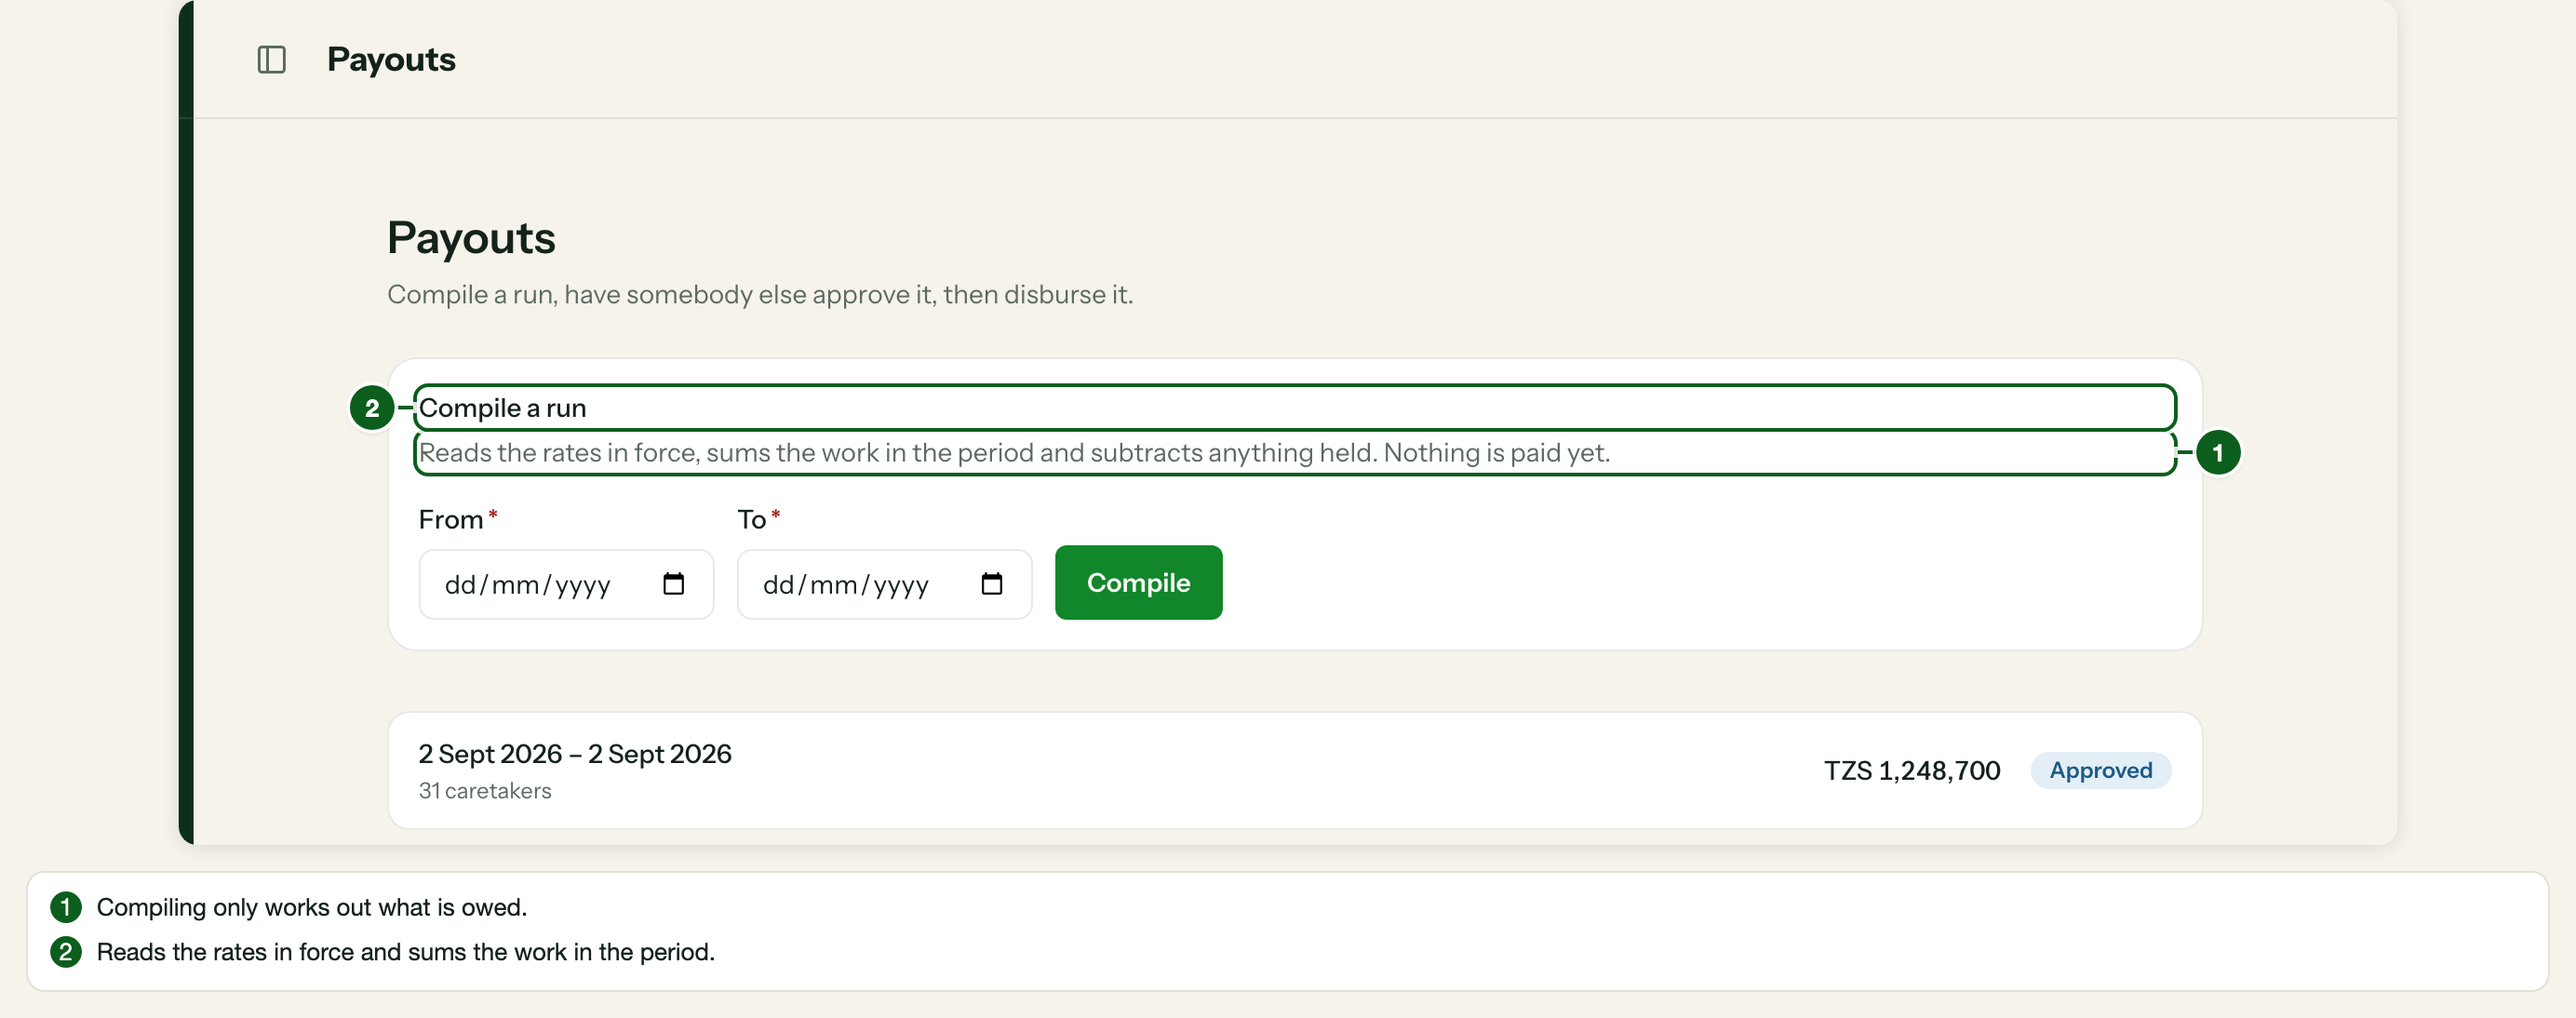
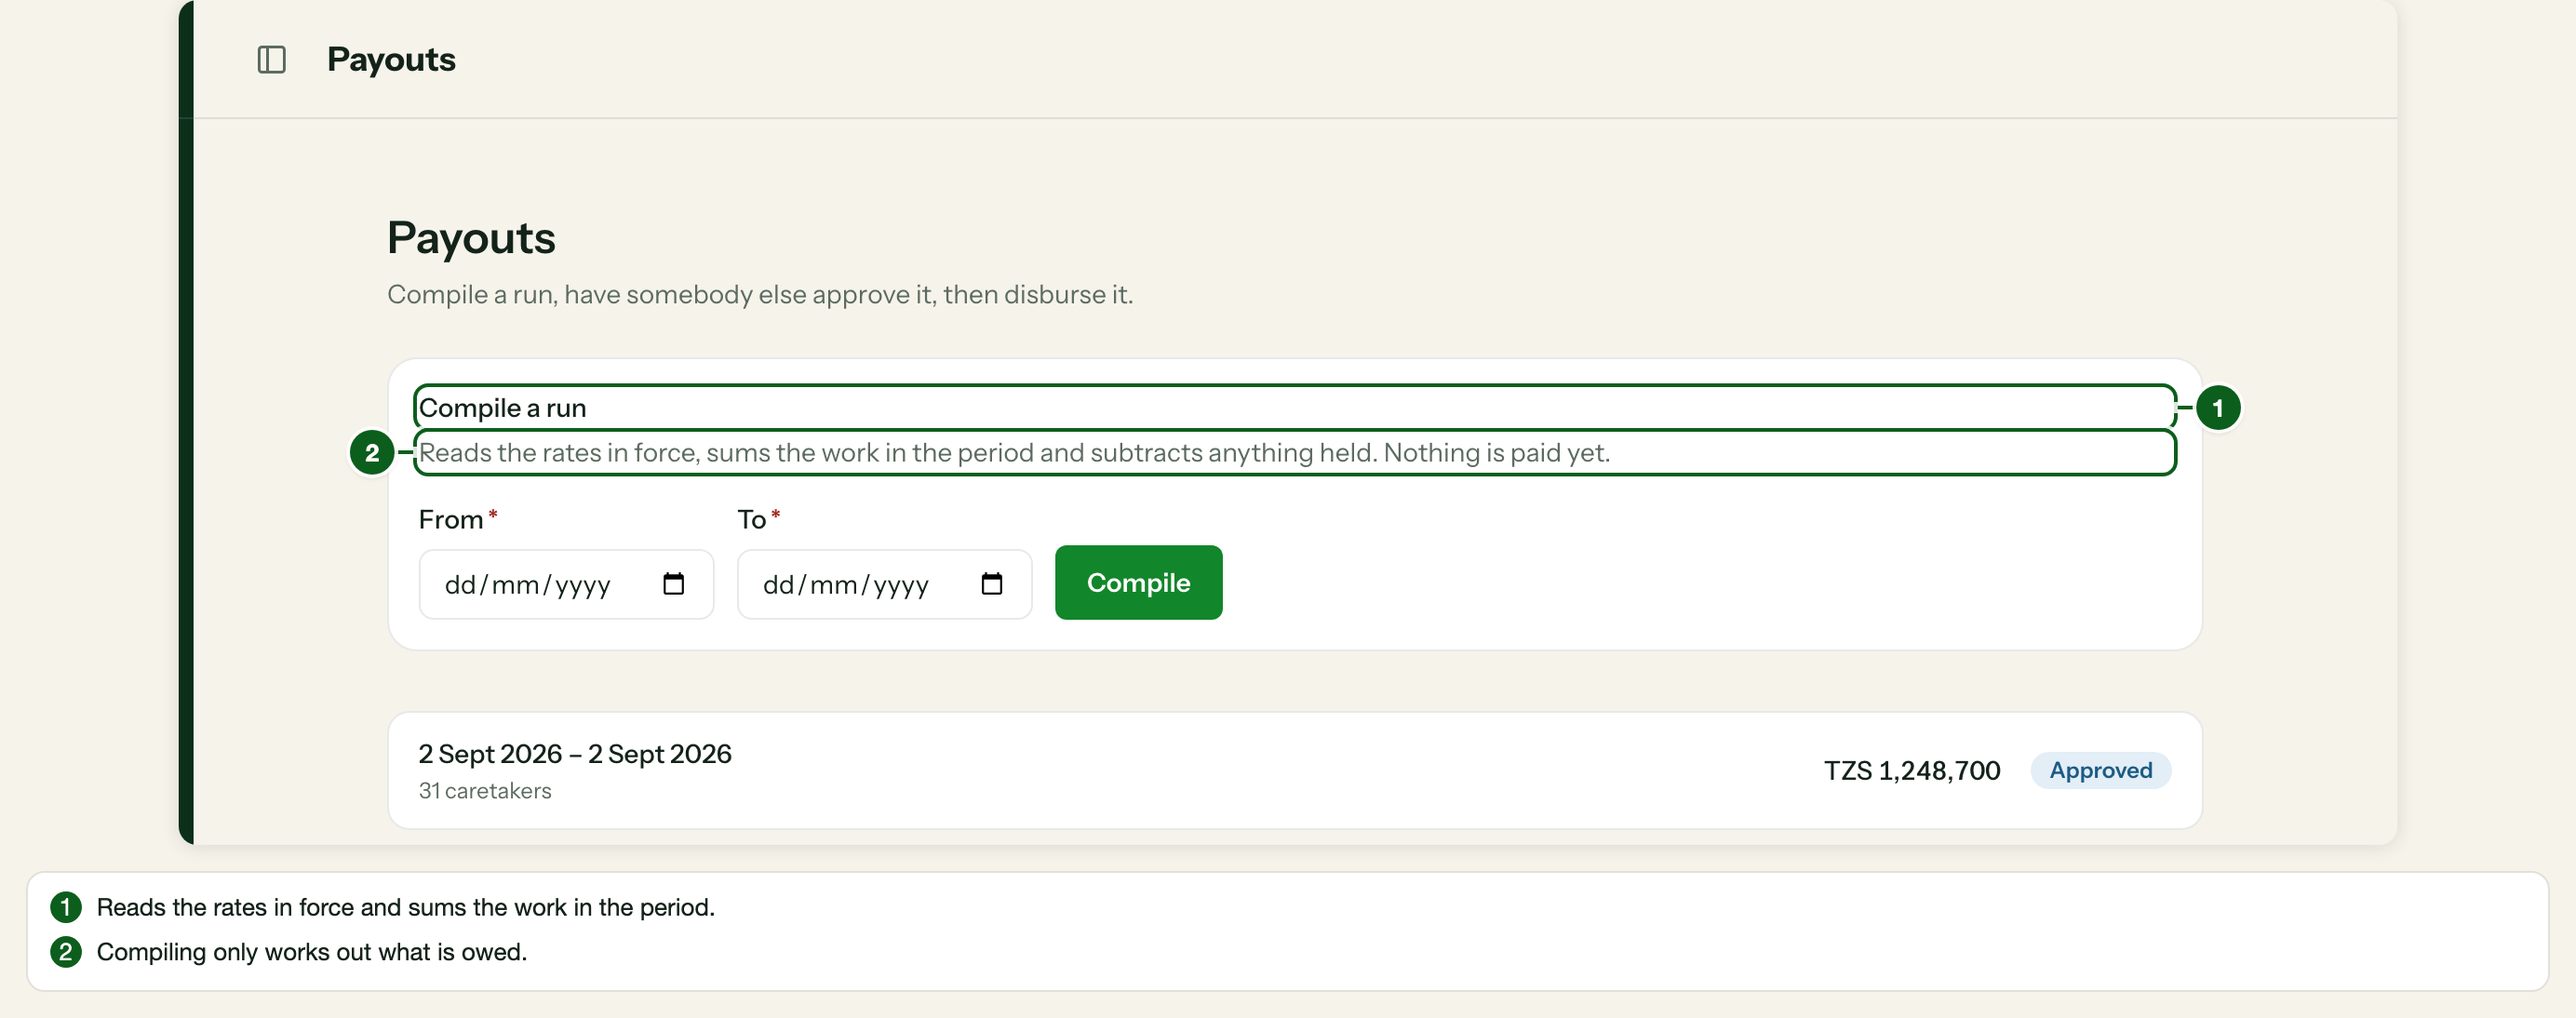
Audit every figure; withdraw two that showed the wrong screen
caretaker/trees and caretaker/profile photographed the app's splash screen. The
recipes counted seconds instead of waiting for anything, so a slow start meant
the capture shot the launch image with the callout boxes marking empty space on
the background photograph. Both now wait for the screen to render, and both fail
immediately when re-run — correct, and not re-shootable here: the dev client
will not bind to this machine's Metro and the demo build does not respond to tab
taps under Maestro. The figures are off their pages with the reason stated, the
recipes are kept and marked pending, and check-shots reports them every run.

Also from the audit: callouts are numbered in reading order rather than shot
list order (eight figures had a badge left of or above its predecessor), and
three notes promised more than their box held — a tree count that was not in the
box, seven statuses that only exist in a filter dropdown, and "six ways to pay"
around a box containing one.

Claude-Session: https://claude.ai/code/session_01BzGu6AtXdAhGoC7dnTavHp

diff --git a/PHASES.md b/PHASES.md
@@ -433,6 +433,51 @@ Two id collisions went with it: corporate wanted `trees` and `tree`, both
 already owned by the caretaker manual. They became `tree-register` and
 `tree-history`. Third time that check has paid for itself.
 
+## What the figure audit found
+
+Every figure was opened and compared against its own note. The markers were
+wrong often enough that the machinery, not the recipes, was the problem.
+
+**Badges pointed at the wrong control.** The badge sat in the gutter and its
+leader stopped at the frame edge, so on a wide console it came to rest beside
+whatever occupied that row at the edge. A box around the first caretaker card's
+*Approve* had its badge against the second card's *Reject*: the figure stated
+the opposite of its note. Running the leader to the box fixed the aim and drew a
+rule through everything between — a caretaker's name, a column heading, a date.
+Badges are now anchored to their own box on a short stub. Nothing to cross.
+
+**One figure listed a callout it never drew.** `admin/fulfilment` shipped a
+legend entry with no badge anywhere on the image: "days late" matched the
+shortest such pill, 150px below the fold, and the marker rendered outside the
+window that clips the frame. `measure.js` now fails on any target outside the
+frame, the same way it fails on a selector that matches nothing.
+
+**Eight figures numbered against reading order** — the second badge to the left
+of the first, or above it. Renumbering happens in the composer now, so markers,
+legend and alt text come from one ordered list.
+
+**Three notes promised more than their box held.** The cluster board pointed at
+a name while promising a tree count. The corporate register pointed at one
+status pill while claiming to show all seven — they live in a filter dropdown,
+which can only ever display one. Checkout boxed *M-Pesa* and said "six ways to
+pay".
+
+**Two caretaker figures showed the splash screen.** `caretaker/trees` and
+`caretaker/profile` photographed the app before it had finished starting, with
+the callouts marking empty space on the background photograph. Both recipes
+counted seconds instead of waiting for anything; they now wait for the screen to
+render, and both failed immediately when re-run — which is the correct
+behaviour. They could not be re-shot: the dev client will not bind to this
+machine's Metro, and the static demo build launches but does not respond to tab
+taps under Maestro. Both figures are withdrawn from their pages, their recipes
+are kept and marked `pending`, and `check-shots` reports them on every run.
+
+`capture/recompose.mjs` came out of this. It redraws every figure from the
+frames `shoot.mjs` already caches, so changing how markers are drawn costs no
+sign-ins and cannot disturb the data the figures document. Positions come from
+the cache; the words come from the shot list.
+
+
 ## Where the manuals are hosted
 
 <https://kazzigroup.github.io/otesha-docs/> — all five manuals, deployed from

diff --git a/docs/caretaker/06-trees.md b/docs/caretaker/06-trees.md
@@ -21,8 +21,6 @@ Nothing. It lists what the app last downloaded, so it opens without signal.
 
 **1. Tap Trees.**
 
-![The caretaker app's tree list, with the heading and the Needs attention filter marked. Marked on the screenshot: Every tree in your section. Narrow to the ones asking for something.](/img/caretaker-trees-01-en.png "Your trees. Your zone and the count are under the heading.")
-
 Under the heading is your zone and how many trees are in your care. Each row is
 one tree: its code, how old it is, when it was last watered, and how far along
 it is — **Growing**, **Mature**, and so on.
@@ -41,6 +39,13 @@ The count under the heading matches what the office thinks you have. If it does
 not, that is a rota question rather than an app one.
 
 ## If it goes wrong
+
+>  **Note:** The screenshot for this page has been pulled. The capture ran
+> before the app had finished starting and photographed the splash screen,
+> with the callouts marking empty space on the background image — a picture
+> of nothing, presented as this screen. The recipe now waits for the screen
+> to render rather than counting seconds, so the figure returns the next
+> time the capture runs against a working handset.
 
 > **Note:** A tree reads *never watered*. That is the record, not an accusation
 > — it means no watering has been logged against it, which for a newly assigned

diff --git a/docs/caretaker/05-profile.md b/docs/caretaker/05-profile.md
@@ -20,8 +20,6 @@ without signal.
 
 **1. Tap Profile.**
 
-![The caretaker profile screen, with the zone and status line and the work counts marked. Marked on the screenshot: Your zone, and whether you are active. Trees in your care, logs this month, days worked.](/img/caretaker-profile-01-en.png "Profile. Your standing, and what this month adds up to.")
-
 **2. Read the line under your name.**
 
 It says your zone and your status — *Zone 87 · Active*. **Active** is what lets
@@ -42,6 +40,13 @@ server, which for work recorded [[link:caretaker/offline|with no signal]] is
 when you are next in range rather than when you tapped save.
 
 ## If it goes wrong
+
+>  **Note:** The screenshot for this page has been pulled. The capture ran
+> before the app had finished starting and photographed the splash screen,
+> with the callouts marking empty space on the background image — a picture
+> of nothing, presented as this screen. The recipe now waits for the screen
+> to render rather than counting seconds, so the figure returns the next
+> time the capture runs against a working handset.
 
 > **Note:** Your trees reads zero and you have been given a section. The app
 > lists what it last downloaded — open it somewhere with signal and give it a

diff --git a/docs/corporate/06-trees.md b/docs/corporate/06-trees.md
@@ -19,10 +19,12 @@ Nothing, or a tree's code if you are looking for one in particular.
 
 **1. Open Trees.**
 
-![The corporate tree register, with the status filters and the planted date marked. Marked on the screenshot: Seven states a tree can be in, including ones nobody wants. When it went in the ground.](/img/corporate-trees-01-en.png "The register. One row per tree, with where it is and how it is doing.")
+![The corporate tree register, with the status filter, a tree's code and an at-risk tree marked. Marked on the screenshot: Filter by state. Seven of them, including the ones nobody wants. The tree's code — the same one on the tag in the field. Flagged by a caretaker. Still alive, and still counted as surviving.](/img/corporate-trees-01-en.png "The register. One row per tree, with where it is and how it is doing.")
 
 Each row is one tree: its code, species, the site it stands on, its state, and
-when it was planted.
+when it was planted. The code is the same one printed on the tag in the field,
+so a question about a specific tree can be traced from this screen to the person
+who last tended it.
 
 **2. Filter by state.**
 

diff --git a/docs/customer/05-checkout.md b/docs/customer/05-checkout.md
@@ -27,7 +27,7 @@ total. **Place order** creates the order — it does not take any money.
 
 **2. Choose how to pay, and which number to charge.**
 
-![The payment step in the customer app, with the payment methods and the number-to-charge note marked. Marked on the screenshot: Six ways to pay, including card and bank transfer. The number charged need not be the one you signed in with.](/img/customer-checkout-02-en.png "How would you like to pay. Six methods, and the number to prompt.")
+![The payment step in the customer app, with the payment methods and the number-to-charge note marked. Marked on the screenshot: M-Pesa is chosen. Tigo, Airtel, Halo, card and bank transfer are the rest. The number charged need not be the one you signed in with.](/img/customer-checkout-02-en.png "How would you like to pay. Six methods, and the number to prompt.")
 
 Six methods: M-Pesa, Tigo Pesa, Airtel Money, Halo Pesa, card and bank transfer.
 The **number to charge** is separate from your account: *"You can pay from a
